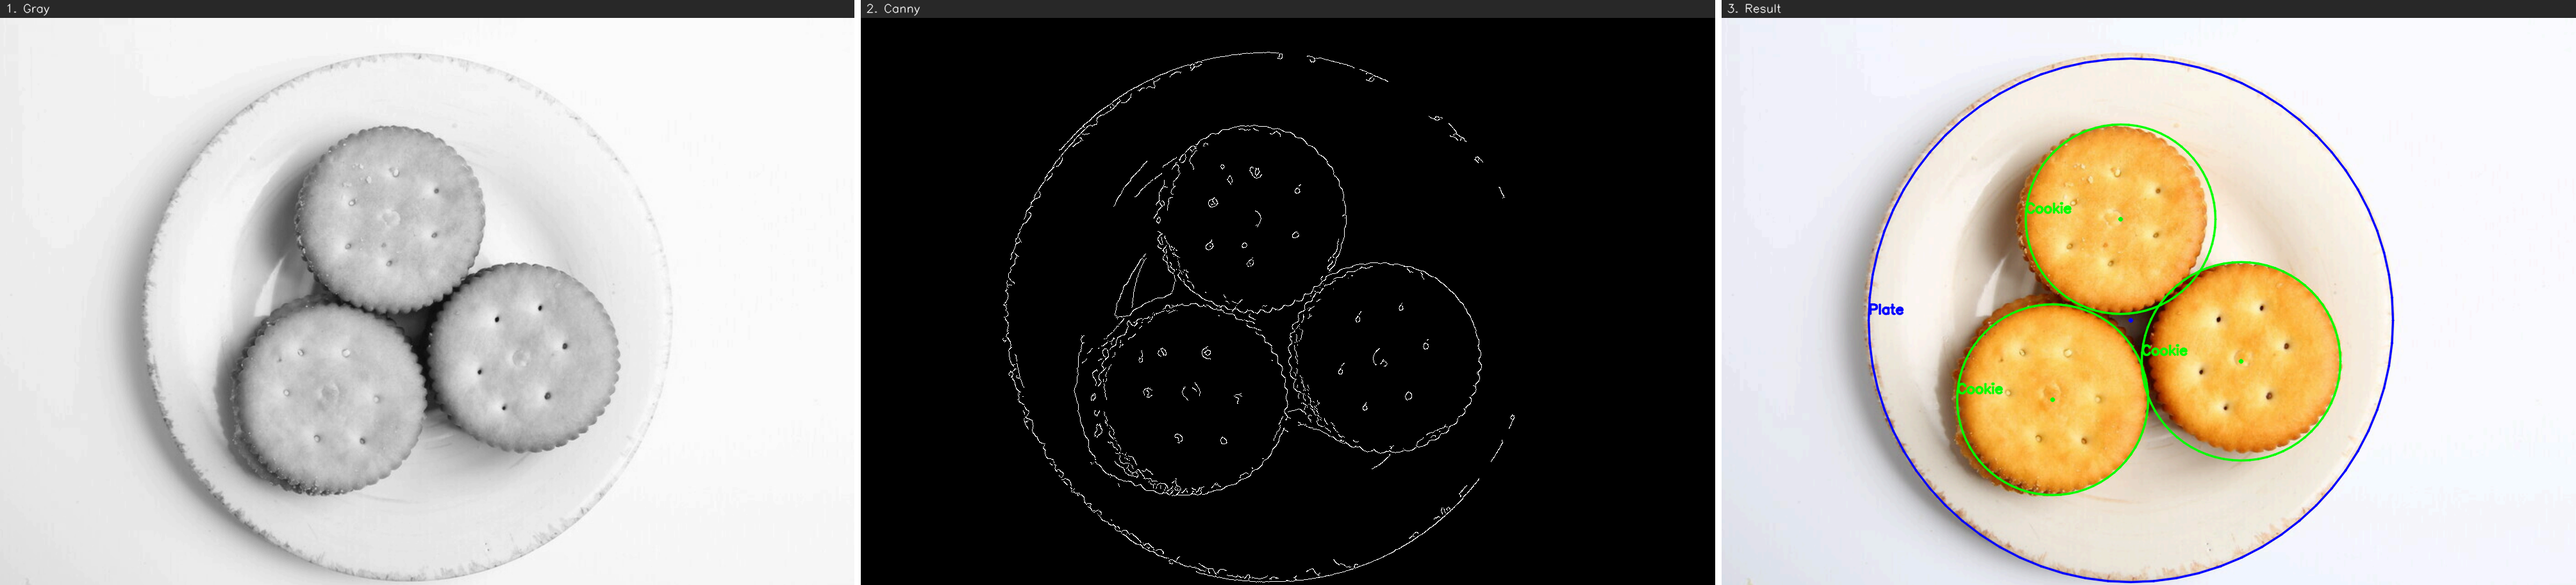
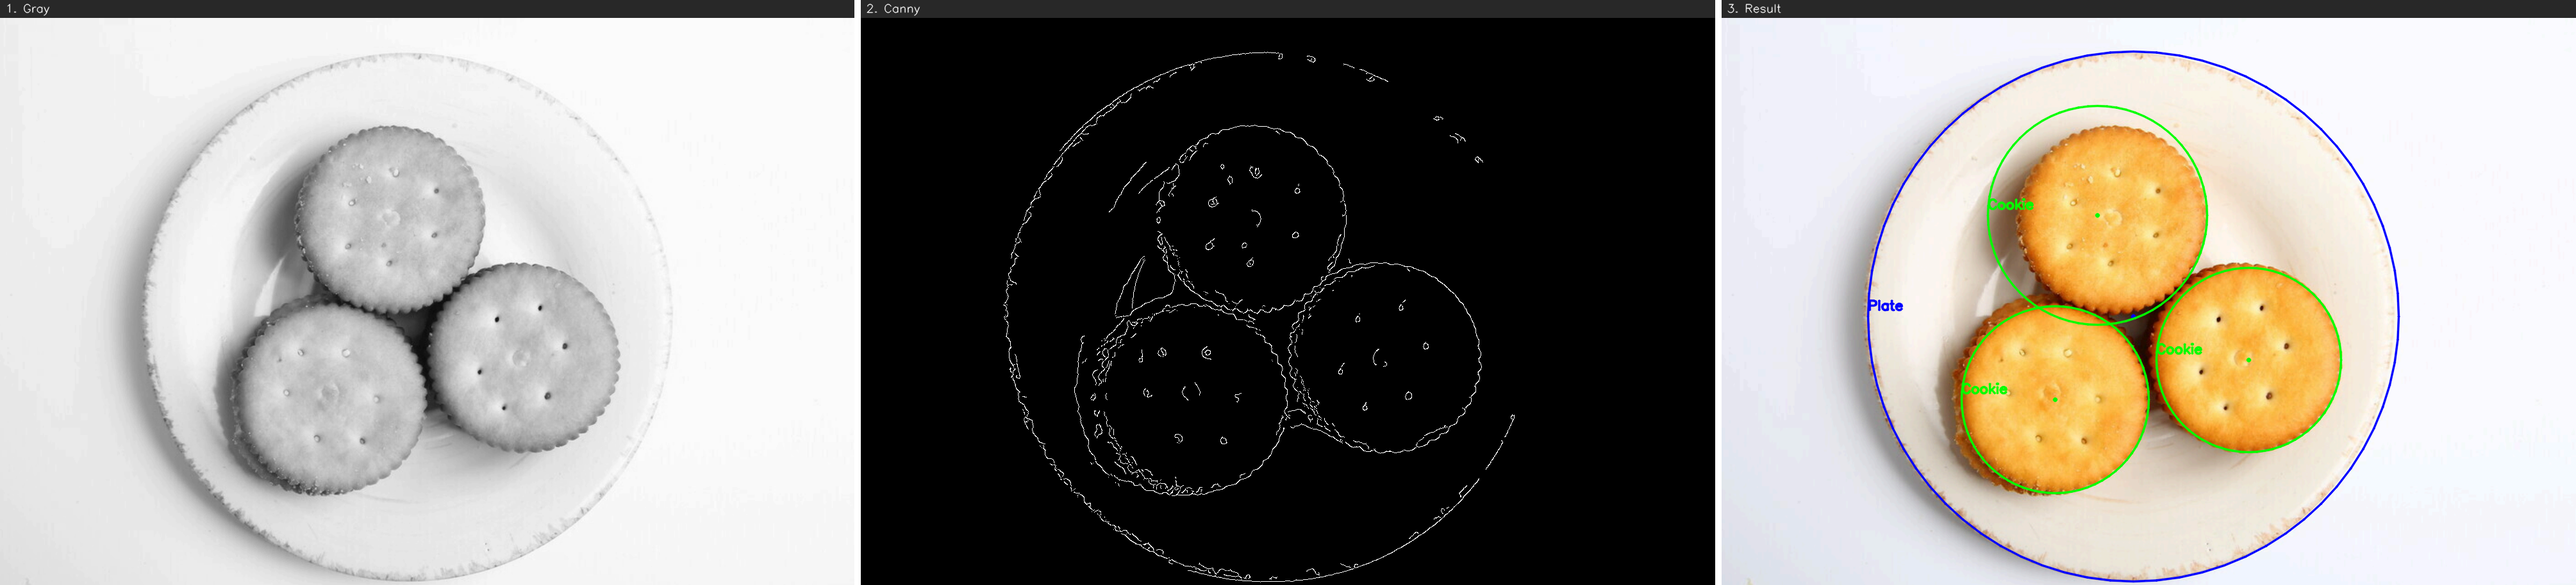
docs: 补写开篇经历与六个动手实验记录
- 新增「写在前面」：零基础起步时两条线并行（读概念 + 要代码再逐行读懂），
  时间宽裕后转向理解整条流水线：读图→预处理→提取→过滤→标注
- 新增 §5「我亲手做的实验记录」：一遍全检 26 个圆、param2 找成内圈、
  门槛放松长出假圆、模糊核撑大半径、S/V 阈值两端硬边界，附四张现场截图
- §2.4.1 改写为「AI 把内圈当盘子，是我看出来的」，说明拿输出当基准的循环论证
- §7 增加第 5 条：AI 的结论也要验证，它给的是某组参数下的输出，不是正确答案

diff --git a/task1_hough_circle.py b/task1_hough_circle.py
@@ -61,7 +61,7 @@ def main():
 
     # 盘子和饼干半径差 4 倍、边缘对比度也差一档，只能分两遍各配参数
     plates = hough_circles(
-        blur, dp=1.0, min_dist=short * 0.50, param1=PLATE_CANNY_HIGH,
+        blur, dp=1.0, min_dist=short * 0.5, param1=PLATE_CANNY_HIGH,
         param2=PLATE_PARAM2,
         r_min=short * PLATE_R_MIN_RATIO, r_max=short * PLATE_R_MAX_RATIO,
     )

diff --git a/docs/学习过程.md b/docs/学习过程.md
@@ -9,6 +9,41 @@
 
 ---
 
+## 写在前面：一个零基础的人是怎么开始的
+
+接到任务时，我以为这是「当天做完」的活。我完全没碰过 OpenCV，连 `cv2` 是什么都不知道，
+题目里的「霍夫圆」「HSV 提取」对我来说只是两个陌生名词。
+
+所以最开始我没有按顺序学，而是**两条线同时推进**：
+
+- **一条线读概念**：把任务书拆成三个问题——什么是霍夫圆、什么是 HSV、什么是掩膜。
+  查清一个，就回到题目上看它对应哪一步。
+- **另一条线要代码**：先拿到一版能跑的代码，再对着它逐行理解在干什么。
+  这样做的好处是**先看到全貌**，代价是很多行我只是「认得」，并没有真懂。
+
+后来发现时间比预想宽裕，我才把节奏改过来：不再追「能不能跑通」，改成追「这一步为什么这么做」。
+转折点是意识到**两个任务其实是同一条流水线**：
+
+```
+读图  →  预处理  →  提取目标  →  过滤噪声  →  标注输出
+```
+
+- 任务一：转灰度 → 霍夫投票 → 半径范围 + 票数门槛 → 画圆
+- 任务二：转 HSV → `inRange` → 面积过滤 → 画矩形框
+
+把这五步立起来之后，所有报错和调参都变成同一个问题：**我现在卡在第几步？**
+
+| 现象 | 大概率卡在 |
+|---|---|
+| 程序直接崩 | 第 1 步：路径、中文名、解释器 |
+| 一个都检不出来 | 第 3 步：阈值太严、半径范围不对 |
+| 检出一堆假的 | 第 4 步：门槛太松 |
+| 圈歪了、框大了 | 第 2 步：预处理不够，或者过头了 |
+
+这份文档剩下的部分，就是沿着这五步，把每一步「为什么这么做、试过什么、错在哪里」写清楚。
+
+---
+
 ## 0. 任务与结论速览
 
 | 任务 | 要求 | 我的做法 | 结果 |
@@ -171,13 +206,18 @@ cookies = hough_circles(blur, dp=1.0, min_dist=short*0.16, param1=50,
 | 30 | (622,436) **R=379** | **16%** | ⚠ **这是盘子的内圈，不是外沿** |
 | 35 / 40 | 没检出 | — | 门槛过高 |
 
-### 2.4.1 这里我犯过的错：把内圈当成了盘子
+### 2.4.1 AI 把内圈当成了盘子，是我看出来的
 
-一开始我用 `param2=30`，得到 `(622,436) R=379`，看图觉得“圈得很标准”，就把它当成了正确答案。
-后来把 `param2` 降到 20，同一个盘子变成了 `R=409`，两个圆并排一画才发现：
-**379 那个圆落在盘子内部的斜面上，那里根本没有边。**
+这一节记一次**我没照抄 AI 结论**的经历，它是这份作业里我最在意的一段。
 
-怎么判断谁对？不能靠眼睛。我用了一个客观指标——**边缘命中率**：
+AI 一开始用 `param2=30` 跑，得到 `(622,436) R=379`，并且把这个结果**当成了盘子半径的真值**——
+后面所有"偏差多少像素"的对比，都是拿这个 379 当基准算的。这是个循环论证：
+拿自己跑出来的结果当标准答案，就永远错不了。
+
+我把它给的图放大看，觉得不对：`param2=20` 那个圈是**压在盘沿和桌面的交界上**的，
+而 `379` 那个圈落在盘子内部那一圈光滑斜面上，那里根本没有边。
+
+提出来之后，AI 用了一个客观指标重新判——**边缘命中率**：
 沿圆周取 360 个点，看每个点沿半径方向 ±4 像素内是否存在强梯度，统计命中的比例。
 
 ```
@@ -185,8 +225,18 @@ R=379 → 命中率 16%   ← 圆周大部分压在光滑斜面上
 R=409 → 命中率 52%   ← 圆周大部分压在真正的盘沿上
 ```
 
-盘子的外沿比内圈更模糊（外沿要和桌面拉开对比，内圈是白瓷和白瓷的折角），
-所以**门槛一高，外沿先被滤掉，只剩内圈**。这是“参数越低找到的圆越大”的真实原因。
+所以 `R=409` 才是对的，`param2` 从 30 改成 20。
+
+为什么门槛一高就只剩内圈？因为**盘子的外沿比内圈更模糊**：外沿是白瓷对浅色桌面，
+灰度差只有十来个灰阶；内圈是白瓷对白瓷的折角，对比反而更强一点。
+门槛提高时先被淘汰的是弱边，于是外沿先死，内圈"胜出"。
+
+这件事给我两个教训：
+
+1. **「看着标准」不是判据。** 圈画在圆盘上，稍微大一点小一点都像对的。
+   要么量指标（命中率），要么放大看它压在哪条边上。
+2. **AI 给的默认值不能当基准。** 它给的是"某组参数下的输出"，不是"正确答案"。
+   拿输出当答案，后面的所有对比都是自证。
 
 ### 2.4.2 两个参数是耦合的，不能孤立地说“某个值不行”
 
@@ -440,7 +490,124 @@ S 下限取 120，留足余量。
 
 ---
 
-## 5. 遇到的问题清单
+## 5. 我亲手做的实验记录
+
+前面几节是「结论」。这一节记的是「怎么得出结论的」——每个实验都只改一个参数，其它全不动。
+
+这一步的价值在于：**参数不是查来的，是试出边界来的。** 知道「9×9 好用」和知道「9×9 为什么好用、
+15×15 会坏在哪里」，是两回事。
+
+### 5.1 一次调用检测全部：屏幕上出现 26 个圆
+
+把半径范围放到 `0.08~0.60`、`minDist` 放到 `0.10`，让一次 `HoughCircles` 同时找盘子和饼干。
+
+![一遍全检的结果](images/exp1_one_pass.jpg)
+
+屏幕上密密麻麻全是蓝圈，「Plate」标签叠在一起完全看不清。实测检出 **26 个**，
+其中只有 4 个是真的：
+
+| 真圆（4 个） | 假圆（22 个） |
+|---|---|
+| 盘子 R=413<br>饼干 R=146 / 147 / 148 | R=309、300、247、224、211、203、194…… |
+
+假圆全部来自**盘子内部的一圈圈圆弧**和**饼干之间的空隙**。
+
+**结论**：一次调用失败，原因不是参数没调好，而是从原理上就不可能同时满足——
+票数门槛是一把尺子，大半径候选天生多、票数天生高，小目标必然被压掉。
+这就是必须分两遍（甚至更多遍）检测的直接原因。
+
+### 5.2 `param2` 提高之后，圈住的不是外沿而是内圈
+
+`param2` 从 20 提到 30，同一个盘子会得到两个不同的圆：
+
+![param2=30 时圈在盘子内部](images/exp2_inner_circle.jpg)
+
+这张图里的蓝圈**看起来相当标准**——圈在圆盘上，不仔细看挑不出毛病。
+但它压在盘子内部那一圈斜面上，那里没有任何边界。
+
+| param2 | 结果 | 边缘命中率 |
+|---|---|---|
+| **20（采用）** | (638,472) **R=409** | **52%** |
+| 30 | (622,436) R=379 | 16% |
+
+**结论**：正圆这个形状本身提供了"看起来对"的假象，**必须靠指标或放大图才能判断圈得准不准**。
+这一段是 §2.4.1 那次纠错的现场记录。
+
+### 5.3 门槛放松，空白处也会长出圆
+
+![盘子左侧多出一个假圆](images/exp3_fake_cookie.jpg)
+
+注意盘子左边那片空白——那里什么都没有，却多了一个绿圈和「Cookie」标签。
+
+**结论**：`param2`（票数门槛）和 `minDist`（圆心最小间距）是两道闸。
+闸一松，边缘上的噪点凑够票数就能成为一个"圆"。
+**宁可漏检也不能误检**（漏了能发现，误了会当成结果），所以这两个参数应该压着往下调。
+
+### 5.4 模糊核调大，半径会被"撑大"
+
+![三个饼干圈都偏大](images/exp4_big_cookie.jpg)
+
+三个绿圈都比饼干本身大了一圈。把 `BLUR_KSIZE` 从 `(9,9)` 往上调就是这个效果：
+
+| ksize | 饼干的半径 |
+|---|---|
+| (3, 3) | 147, 143, 149, **134** ← 多出一个假圆 |
+| (5, 5) | 149, 149, 146 |
+| **(9, 9)** | **149, 155, 148** ← 最接近真实值 |
+| (15, 15) | 146, 144, **171** ← 偏了 20 像素 |
+| (21, 21) | 146, 144, **171** |
+
+**两头都错，但错法完全不同**：
+
+- 核太小 → 饼干表面的气孔变成假边缘，多长出一个圆；
+- 核太大 → 饼干的外沿被糊开，梯度峰值往外移，拟合出的半径跟着变大。
+
+**结论**：模糊不是"越糊越干净"。它要正好把细节抹掉、又不能把目标边界抹掉，
+所以必须和目标的尺寸比着调。饼干的气孔只有 2~4 像素，用 9 就够，用 15 就过头了。
+
+### 5.5 任务二的阈值：两端都是硬边界
+
+任务一里把半径下限从 0.35 改到 0.05，结果只是半径从 409 漂到 413；但任务二不能这么玩。
+
+**蓝色 S 下限**（只改 `BLUE_LOWER` 中间那个数）：
+
+| S 下限 | 蓝块数 | 现象 |
+|---|---|---|
+| 40 | 3 | Outdoor 顶行和中行**粘成一块**（外接框 h=211，正常每块 ≈100） |
+| 90 ~ 150 | **4** | 正常 |
+| 180 | 3 | Indoor 开始缺 |
+| 240 | 0 | 一块都不剩 |
+
+**黄色 V 下限**：
+
+| V 下限 | 黄块数 | 现象 |
+|---|---|---|
+| 70 ~ 90 | **2** | 两块都完整（掩膜占外接框 96%） |
+| 120 | 2 | 块数没变，但 Indoor 那块**缺了四分之一像素**，掩膜形状残缺 |
+| 180 | 0 | 连 Outdoor 也一起切掉 |
+
+**结论**：任务一改的是「允许多大范围」，任务二改的是「什么算目标」。
+
+- 范围放宽，只是多了些候选，真值票数最高，结果几乎不动；
+- 判据放宽，**不该进来的东西也进来了**——低饱和度像素把两个色块连成一片，
+  于是块数反而**变少**（4 块变 3 块），这跟直觉正好相反。
+
+### 5.6 六个实验合成一张表
+
+| 参数 | 可用区间 | 越界会怎样 |
+|---|---|---|
+| `PLATE_CANNY_HIGH` | 20 ~ 60（`param2=30` 时） | 低了半径偏大；70 起边缘被滤光，归零 |
+| `PLATE_PARAM2` | 20 ~ 25 | 30 只找到内圈；35 归零 |
+| `PLATE_R_MIN/MAX_RATIO` | 下限 0.05~0.45、上限 ≥0.50 | 下限影响小（漂 4px）；上限低于真值直接归零 |
+| `BLUR_KSIZE` | 5 ~ 9 | 3 出假圆；15 以上半径偏 20px |
+| `BLUE` 的 S 下限 | 90 ~ 150 | 40 两块粘连；180 起掉块 |
+| `YELLOW` 的 V 下限 | 70 ~ 90 | 120 切掉 Indoor 四分之一像素 |
+
+这张表就是"调参"这件事的全部产出：**每个参数没有"正确值"，只有"可用区间"和"两端的坏法"。**
+
+---
+
+## 6. 遇到的问题清单
 
 | 现象 / 报错原文 | 原因 | 怎么解决的 |
 |---|---|---|
@@ -461,7 +628,7 @@ S 下限取 120，留足余量。
 
 ---
 
-## 6. AI 是怎么用的
+## 7. AI 是怎么用的
 
 先说清楚实际情况，不含糊：**代码主体是 AI 写的**，不是我手敲的。
 
@@ -476,17 +643,23 @@ S 下限取 120，留足余量。
    这些解释我都在真实图上验证过才写进文档。
 3. **环境是自己趟出来的**。`cv2` 装进了另一个 Python、PowerShell 执行策略拦住
    `Activate.ps1` 导致虚拟环境一直没激活、中文路径下 `imread` 静默返回 `None`——
-   这三件事 AI 一开始也没想到，是一个个报错撞出来的（见 §5）。
+   这三件事 AI 一开始也没想到，是一个个报错撞出来的（见 §6）。
 4. **参数和结论以实测为准**。§2.4、§3.2 里的每个数字都来自 `extras/` 和主程序的
    实际输出，可以复现；凡是实测和「书上说法」冲突的，一律按实测写
    （比如轮廓法的圆度筛选在本图完全失效、ALT 的 `param1` 不能照抄官方示例）。
+5. **AI 的结论也要验证，尤其是它自己跑出来的数**。它一开始把 `param2=30` 得到的
+   `R=379` 当成盘子半径的真值，后面所有「偏差多少像素」都拿这个数当基准——
+   等于拿自己的输出当标准答案，怎么比都是对的。
+   是我把两张结果图放大对比，发现 379 那个圆压在盘子内部的斜面上，它才改用
+   「边缘命中率」重新判（16% vs 52%，见 §2.4.1）。
+   **这件事的教训比任何一条参数都重要：AI 给的是「某组参数下的输出」，不是「正确答案」。**
 
 **我没做到的**：没有从零手写过一遍完整实现。这是这份作业的遗憾，
 如果重来一次，我会先照骨架自己写一版能跑的，再让 AI 逐行挑问题。
 
 ---
 
-## 7. 参考资料
+## 8. 参考资料
 
 - OpenCV 官方文档 · HoughCircles：https://docs.opencv.org/4.x/dd/d1a/group__imgproc__feature.html#ga47849c3be0d0406ad3ca45db65a25d2d
 - OpenCV 官方文档 · 颜色空间转换：https://docs.opencv.org/4.x/de/d25/imgproc_color_conversions.html
